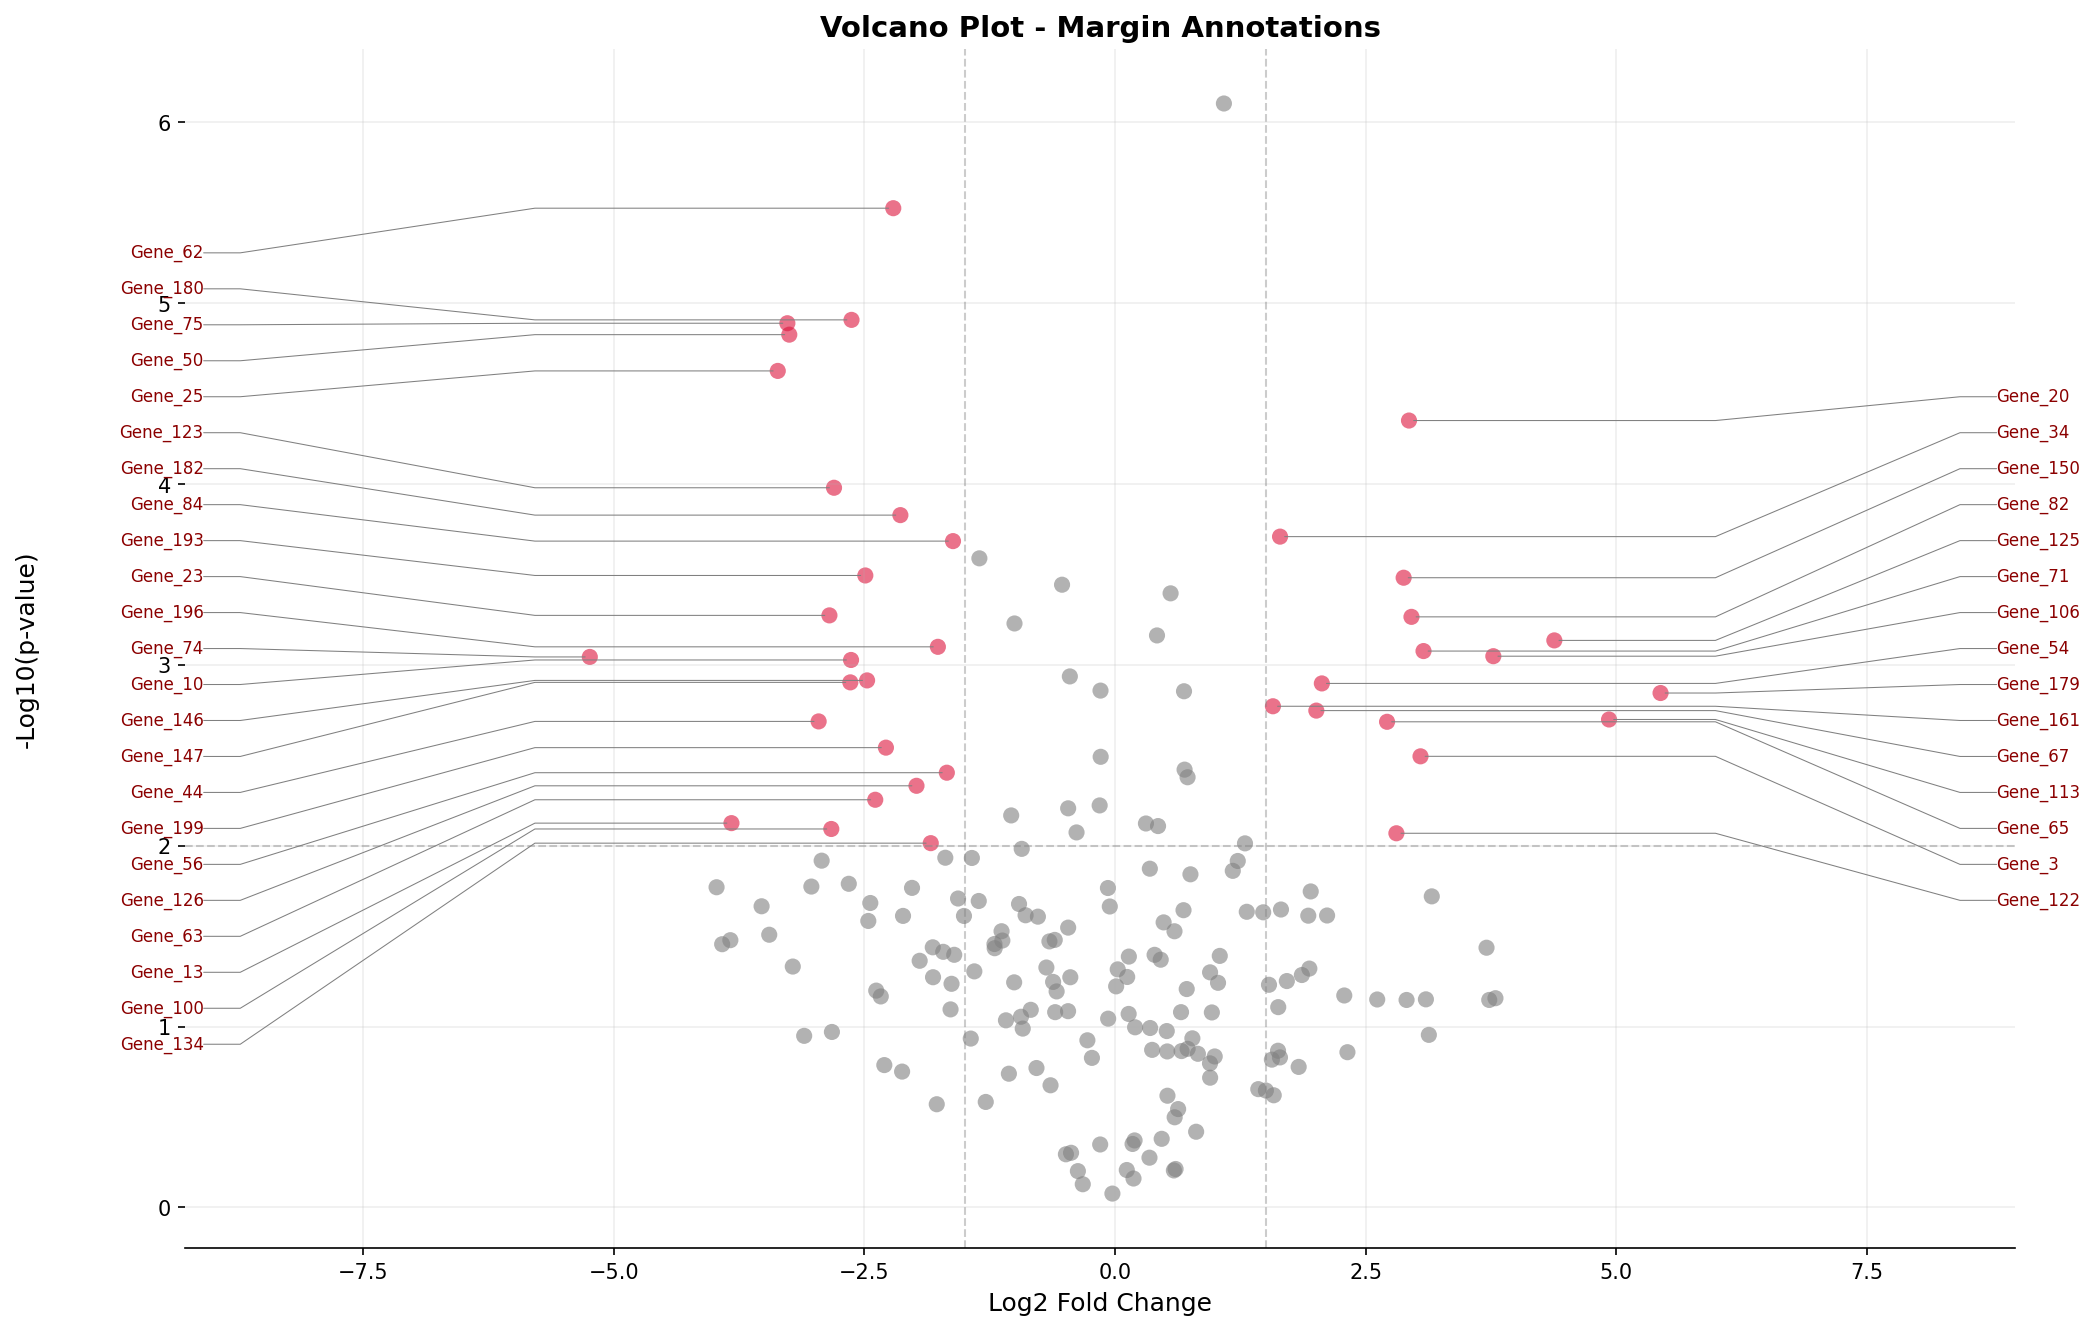
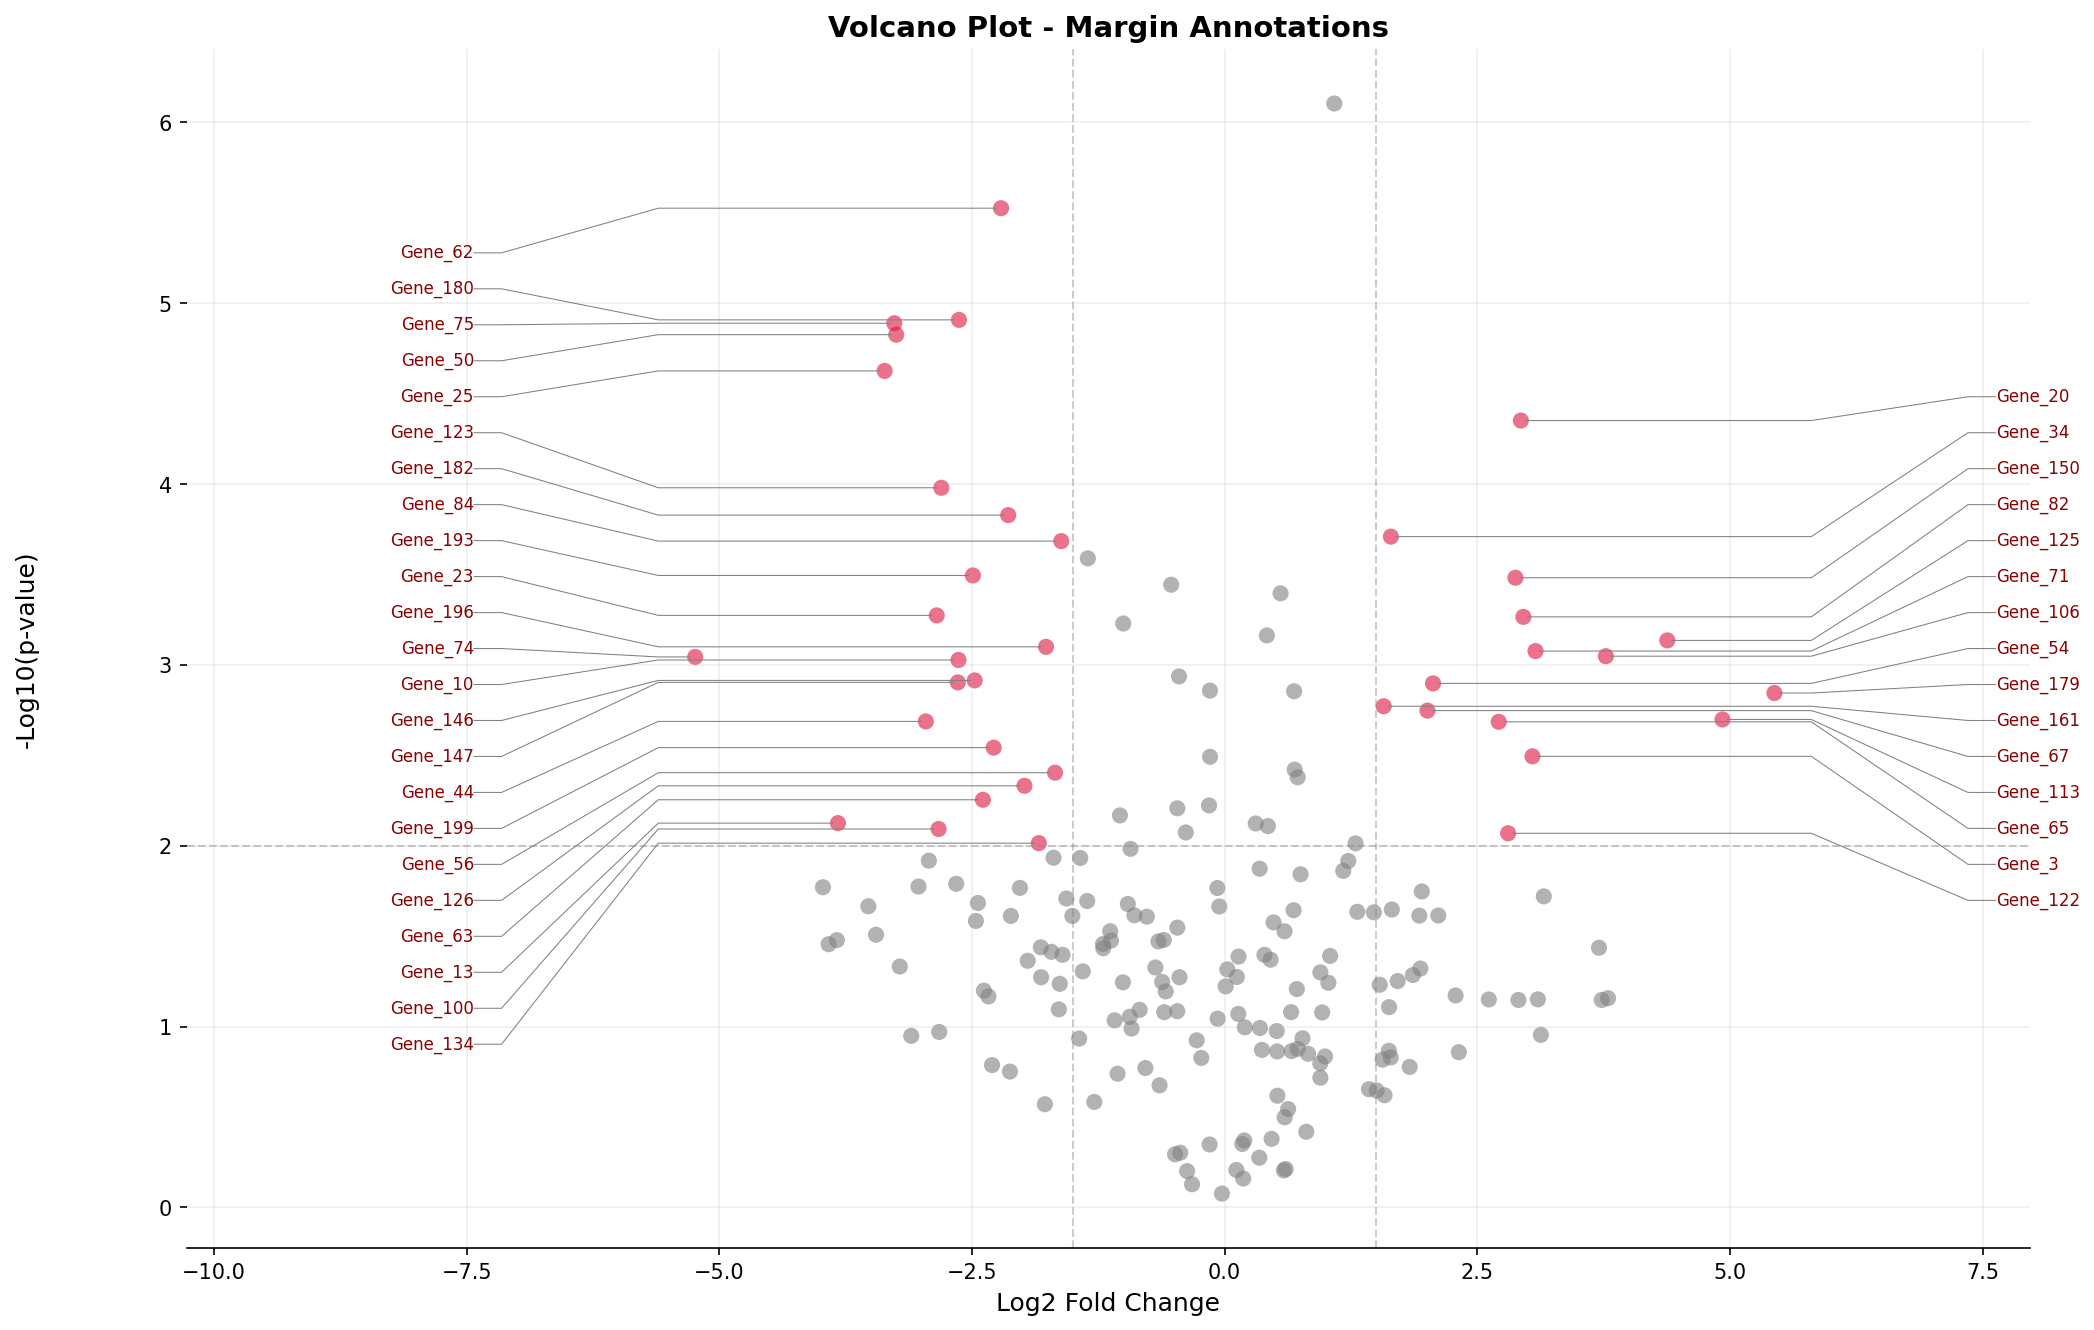
fix: labels closer to dots, visible 3-segment connectors, no overlap
Margin annotation:
- Labels positioned closer to dots (12% from farthest dot, not at edge)
- More left margin to avoid Y-axis tick overlap
- Clear 3-segment connectors visible

Heatmap annotation:
- Visible 3-segment: horizontal → diagonal → horizontal
- Increased label spacing (2.5) to prevent text overlap
- Labels close to heatmap but properly separated

diff --git a/examples/heatmap_annotation.py b/examples/heatmap_annotation.py
@@ -1,10 +1,12 @@
 """
 Heatmap Row Annotation Example
 
-Same style as margin annotation:
-- All first horizontal segments end at same X (aligned)
-- All third horizontal segments start at same X (aligned)
-- Short segments, labels close to heatmap
+Clear 3-segment connectors:
+1. Horizontal from heatmap edge
+2. Diagonal (slanted)
+3. Horizontal to label
+
+Labels close to heatmap but with enough spacing to not overlap.
 """
 
 import matplotlib.pyplot as plt
@@ -23,15 +25,14 @@ def annotate_heatmap_rows(
     label_color="black",
     line_color="gray",
     linewidth=0.6,
-    min_label_spacing=1.2,
+    min_label_spacing=2.5,  # Increased spacing to prevent overlap
 ):
     """
-    Annotate heatmap rows with aligned 3-segment connectors.
+    Annotate heatmap rows with clear 3-segment connectors.
 
-    Same pattern as margin annotation:
-    1. First horizontal: from heatmap edge to elbow_x (all aligned)
-    2. Diagonal: from elbow to label_align_x
-    3. Third horizontal: from label_align_x to label (all aligned)
+    1. Horizontal: from heatmap edge to elbow_x
+    2. Diagonal: from elbow to label position
+    3. Horizontal: short segment to label
     """
     xlim = ax.get_xlim()
     artists = []
@@ -42,48 +43,58 @@ def annotate_heatmap_rows(
     labels_sorted = [x[1] for x in sorted_data]
     n_labels = len(rows_sorted)
 
-    # Center labels vertically, ensure no overlap
+    # Center labels vertically with enough spacing
     total_height = (n_labels - 1) * min_label_spacing
     y_center = sum(rows_sorted) / n_labels
     y_start = y_center - total_height / 2
     label_y_positions = [y_start + i * min_label_spacing for i in range(n_labels)]
 
     if side == "right":
-        start_x = n_cols - 0.5  # Heatmap edge
+        heatmap_edge = n_cols - 0.5
+        # Positions for visible 3-segment connector
+        elbow_x = heatmap_edge + 0.3  # End of first horizontal
+        label_align_x = xlim[1] - 0.25  # Start of third horizontal
         label_x = xlim[1] - 0.05  # Label position
-        # Aligned positions - just past heatmap edge
-        elbow_x = n_cols - 0.5 + 0.15  # First segments end here
-        label_align_x = label_x - 0.12  # Third segments start here
         ha = "left"
     else:
-        start_x = -0.5
+        heatmap_edge = -0.5
+        elbow_x = heatmap_edge - 0.3
+        label_align_x = xlim[0] + 0.25
         label_x = xlim[0] + 0.05
-        elbow_x = -0.5 - 0.15
-        label_align_x = label_x + 0.12
         ha = "right"
 
     for row, label, label_y in zip(rows_sorted, labels_sorted, label_y_positions):
-        # 3-segment connector with aligned positions
-        vertices = np.array([
-            [start_x, row],           # Start at heatmap edge
-            [elbow_x, row],           # End of first horizontal (aligned)
-            [label_align_x, label_y], # Start of third horizontal (aligned)
-            [label_x, label_y],       # At label
-        ])
+        # Clear 3-segment connector
+        vertices = np.array(
+            [
+                [heatmap_edge, row],  # Start at heatmap edge
+                [elbow_x, row],  # End of first HORIZONTAL
+                [label_align_x, label_y],  # End of DIAGONAL / start of third horizontal
+                [label_x, label_y],  # End at label (HORIZONTAL)
+            ]
+        )
         codes = [Path.MOVETO, Path.LINETO, Path.LINETO, Path.LINETO]
 
         path = Path(vertices, codes)
         patch = PathPatch(
-            path, facecolor="none", edgecolor=line_color,
-            linewidth=linewidth, capstyle="round", joinstyle="round",
+            path,
+            facecolor="none",
+            edgecolor=line_color,
+            linewidth=linewidth,
+            capstyle="round",
+            joinstyle="round",
         )
         ax.add_patch(patch)
         artists.append(patch)
 
         text_obj = ax.text(
-            label_x + (0.03 if side == "right" else -0.03),
-            label_y, label,
-            fontsize=label_fontsize, color=label_color, ha=ha, va="center",
+            label_x + (0.05 if side == "right" else -0.05),
+            label_y,
+            label,
+            fontsize=label_fontsize,
+            color=label_color,
+            ha=ha,
+            va="center",
         )
         artists.append(text_obj)
 
@@ -108,8 +119,8 @@ def main():
     rows_to_annotate = [74, 75, 76]
     row_labels = ["Target_A", "Target_B", "Target_C"]
 
-    # Small extension for labels
-    ax.set_xlim(-0.5, n_cols + 1.2)
+    # Extension for labels - close to heatmap
+    ax.set_xlim(-0.5, n_cols + 2.0)
 
     annotate_heatmap_rows(
         ax,
@@ -121,13 +132,18 @@ def main():
         label_color="black",
         line_color="dimgray",
         linewidth=0.8,
-        min_label_spacing=1.5,
+        min_label_spacing=2.5,  # Enough spacing to prevent overlap
     )
 
     # Highlight region
     rect = Rectangle(
-        (-0.5, 70 - 0.5), n_cols, 15,
-        linewidth=2, edgecolor="red", facecolor="none", linestyle="--",
+        (-0.5, 70 - 0.5),
+        n_cols,
+        15,
+        linewidth=2,
+        edgecolor="red",
+        facecolor="none",
+        linestyle="--",
     )
     ax.add_patch(rect)
 

diff --git a/pyforce/annotations.py b/pyforce/annotations.py
@@ -1113,26 +1113,26 @@ def annotate_margin(
     if side in ("right", "left"):
         direction = 1 if side == "right" else -1
 
-        # Margin position (where labels are)
-        if margin_x is None:
-            if side == "right":
-                margin_x = xlim[1] - x_range * 0.01
-            else:
-                margin_x = xlim[0] + x_range * 0.01
-
-        # Calculate aligned X positions for clean non-overlapping lines:
-        # - elbow_x: where ALL first horizontal segments END (just past farthest dot)
-        # - label_align_x: where ALL third horizontal segments START
-        
-        # Find the rightmost/leftmost dot - elbow just slightly beyond
+        # Find extremes of annotated dots
         if side == "right":
             max_dot_x = max(p["x"] for p in point_data)
-            elbow_x = max_dot_x + x_range * 0.03  # Just past farthest dot
-            label_align_x = margin_x - x_range * 0.02
         else:
             min_dot_x = min(p["x"] for p in point_data)
-            elbow_x = min_dot_x - x_range * 0.03  # Just past farthest dot
-            label_align_x = margin_x + x_range * 0.02
+
+        # Margin position - CLOSER to dots (not at plot edge)
+        if margin_x is None:
+            if side == "right":
+                margin_x = max_dot_x + x_range * 0.12  # Close to rightmost dot
+            else:
+                margin_x = min_dot_x - x_range * 0.12  # Close to leftmost dot
+
+        # Aligned X positions for non-overlapping lines:
+        if side == "right":
+            elbow_x = max_dot_x + x_range * 0.02  # Just past farthest dot
+            label_align_x = margin_x - x_range * 0.015  # Short final segment
+        else:
+            elbow_x = min_dot_x - x_range * 0.02
+            label_align_x = margin_x + x_range * 0.015
 
         # Minimum spacing between labels
         min_spacing = label_spacing if label_spacing else y_range * 0.03

diff --git a/examples/volcano_plot.py b/examples/volcano_plot.py
@@ -94,9 +94,9 @@ def create_margin_figure():
     ax.axvline(x=-1.5, color="gray", linestyle="--", alpha=0.4, linewidth=1)
     ax.axvline(x=1.5, color="gray", linestyle="--", alpha=0.4, linewidth=1)
 
-    # Expand X region for labels - more on left to avoid Y-axis overlap
+    # Expand X region - labels closer to dots, more space on left for Y-axis
     xlim = ax.get_xlim()
-    ax.set_xlim(xlim[0] - 3.5, xlim[1] + 3.0)
+    ax.set_xlim(xlim[0] - 4.5, xlim[1] + 2.0)  # More left margin for Y-axis ticks
 
     annotate_margin(
         ax,
